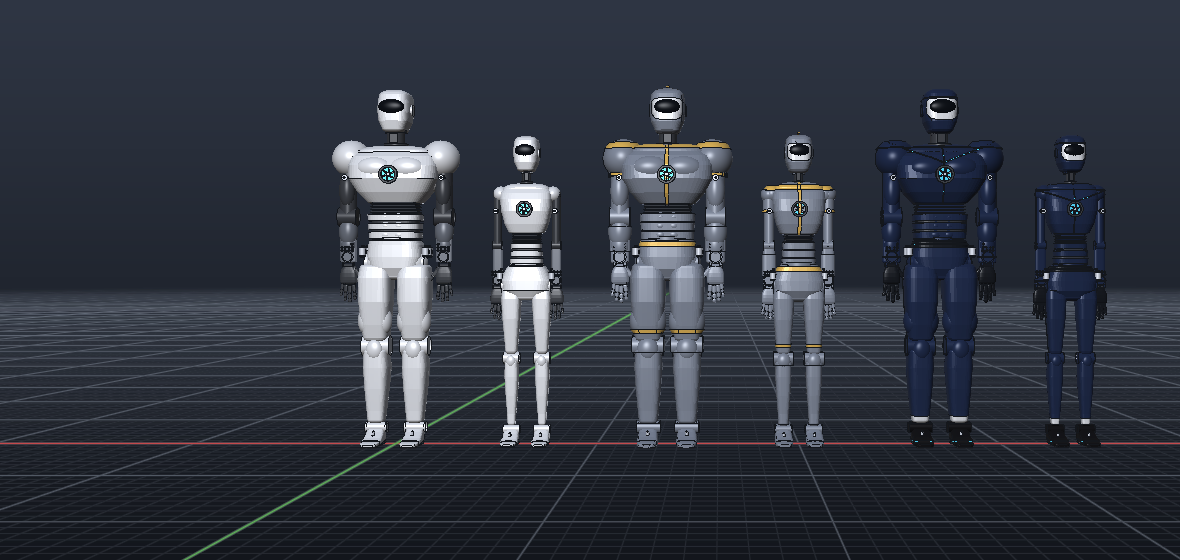
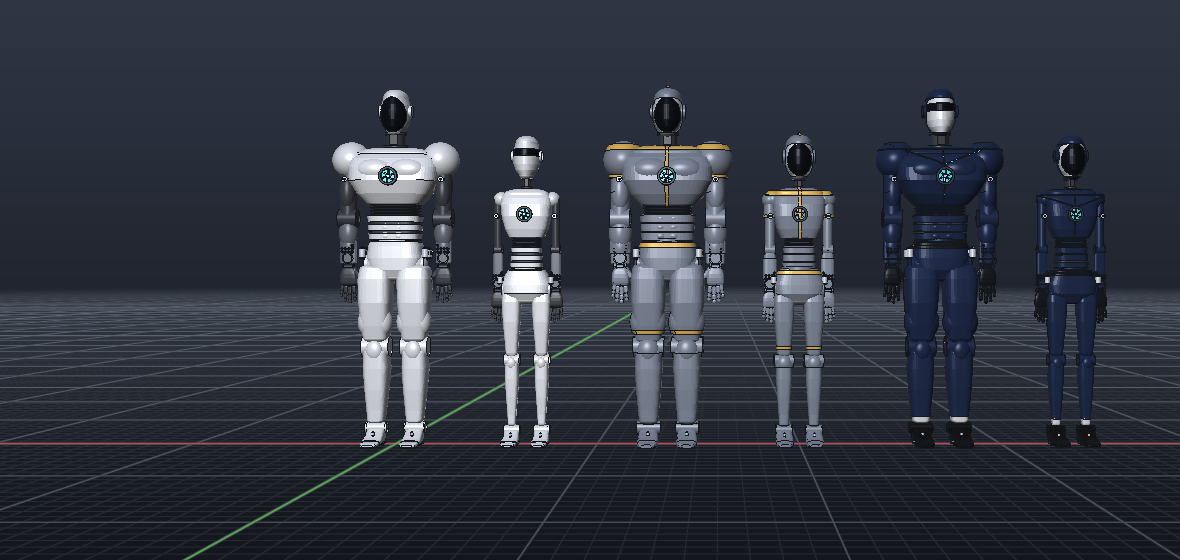
Humanoid faces: full or half black glass, on a real-size oval head
- FACE option on the male and female humanoids: Full black glass (one
  smooth dark glass over the face, brow to chin) or Half black glass (a
  band across the eyes wrapping toward the ears, RoboCop style). Both are
  the head's own surface lifted and cut cleanly, so they follow its curve.
- Heads are the real average adult size whatever the robot's height
  (male 232 x 155 x 190 mm, female 215 x 145 x 180 mm), with human oval
  (elliptic) sections instead of a deep rounded box; the body below the
  chin scales to make up the height.

Claude-Session: https://claude.ai/code/session_01CbyDM34jeTNtbpLZ1LxuGy

diff --git a/src/core/Library.cpp b/src/core/Library.cpp
@@ -620,12 +620,14 @@ Vec2 roundCorner(float a) {
     return {std::copysign(std::sqrt(std::fabs(c)), c), std::copysign(std::sqrt(std::fabs(s)), s)};
 }
 
-MeshData sweepY(const std::vector<Section>& secs, int n = 40) {
+// `elliptic`: plain ellipse sections instead of rounded boxes (heads).
+MeshData sweepY(const std::vector<Section>& secs, int n = 40, bool elliptic = false) {
     Builder b;
     auto ring = [&](const Section& q) {
         std::vector<Vec3> r(static_cast<std::size_t>(n));
         for (int k = 0; k < n; ++k) {
-            const Vec2 u = roundCorner(2.0f * kPi * static_cast<float>(k) / static_cast<float>(n));
+            const float a = 2.0f * kPi * static_cast<float>(k) / static_cast<float>(n);
+            const Vec2 u = elliptic ? Vec2{std::cos(a), std::sin(a)} : roundCorner(a);
             r[static_cast<std::size_t>(k)] = {q.hw * u.x, q.y, q.zc + q.ht * u.y};
         }
         return r;
@@ -779,7 +781,7 @@ struct BodySection {
 
 // Rounded-box shell swept up (+Z) or, with `down`, down (-Z) through `secs`
 // (h increasing), with domed ends rounded over r0 (first) and r1 (last) mm.
-MeshData bodyShell(std::vector<BodySection> secs, float r0, float r1, bool down = false, int n = 48) {
+MeshData bodyShell(std::vector<BodySection> secs, float r0, float r1, bool down = false, int n = 48, bool elliptic = false) {
     std::vector<BodySection> all;
     constexpr int kSteps = 6;
     const BodySection a = secs.front(), b = secs.back();
@@ -795,7 +797,7 @@ MeshData bodyShell(std::vector<BodySection> secs, float r0, float r1, bool down 
     }
     std::vector<Section> s;
     for (const BodySection& q : all) s.push_back({q.h, q.hw, q.hd, down ? q.fwd : -q.fwd});
-    MeshData m = sweepY(s, n);
+    MeshData m = sweepY(s, n, elliptic);
     m.transform(rotateAxis({1, 0, 0}, down ? -kPi * 0.5f : kPi * 0.5f));
     return m;
 }
@@ -815,14 +817,46 @@ MeshData cylY(float y0, float y1, float r, float x, float z, int seg = 48) {
 
 // Head on the neck pivot (origin): rounded skull, ear sensor pods; or (visor) the
 // dark face shield.
-MeshData robotHead(float w, float d, float h, bool visor) {
+MeshData inflated(const MeshData& m, float t, const std::vector<std::function<float(const Vec3&)>>& fields = {});
+
+// Head on the neck pivot (origin): the shell with ear sensor pods, or (visor) its dark
+// glass. Faces: 0 the robot's eye visor; 1 a full black glass face; 2 a half black glass
+// face (a band across the eyes, RoboCop style). Builds 1 and 2 (the male and female
+// humanoids) have a human oval head with elliptic sections; 0 the rounded robot head.
+MeshData robotHead(float w, float d, float h, bool visor, int face = 0, int build = 0) {
     const float sx = w / 160.0f, sy = d / 200.0f, sz = h / 230.0f;
     const float z0 = -15.0f * sz; // chin
-    if (visor) return ellipsoid({0, (0.47f * 200.0f + 4.0f) * sy, z0 + 0.56f * h}, {0.40f * w, 0.09f * d, 0.17f * h});
-    auto sec = [&](float u, float kw, float kd, float f) { return BodySection{z0 + u * h, kw * w, kd * d, f * d}; };
-    MeshData m = bodyShell({sec(0.10f, 0.36f, 0.40f, 0.06f), sec(0.25f, 0.46f, 0.47f, 0.04f), sec(0.45f, 0.50f, 0.50f, 0.02f),
-                            sec(0.65f, 0.50f, 0.50f, 0.0f), sec(0.80f, 0.47f, 0.48f, -0.02f)},
-                           0.10f * h, 0.16f * h);
+    if (visor && face == 0) return ellipsoid({0, (0.47f * 200.0f + 4.0f) * sy, z0 + 0.56f * h}, {0.40f * w, 0.09f * d, 0.17f * h});
+    // Sections up the head: height fraction u, half width and depth (x w, d), forward shift (x d).
+    struct Row {
+        float u, kw, kd, f;
+    };
+    static const std::vector<Row> kNeutral = {{0.10f, 0.36f, 0.40f, 0.06f}, {0.25f, 0.46f, 0.47f, 0.04f}, {0.45f, 0.50f, 0.50f, 0.02f},
+                                              {0.65f, 0.50f, 0.50f, 0.0f},  {0.80f, 0.47f, 0.48f, -0.02f}};
+    static const std::vector<Row> kOval = {{0.07f, 0.24f, 0.36f, 0.07f}, {0.17f, 0.36f, 0.43f, 0.05f}, {0.31f, 0.44f, 0.48f, 0.03f},
+                                           {0.48f, 0.47f, 0.50f, 0.02f}, {0.64f, 0.45f, 0.49f, 0.0f},  {0.78f, 0.39f, 0.46f, -0.02f}};
+    const std::vector<Row>& rows = build == 0 ? kNeutral : kOval;
+    auto zAt = [&](float u) { return z0 + u * h; };
+    std::vector<BodySection> secs;
+    for (const Row& r : rows) secs.push_back({zAt(r.u), r.kw * w, r.kd * d, r.f * d});
+    // Human heads are oval in section: the male and female heads use ellipses, the neutral
+    // robot head its rounded box.
+    MeshData shell = bodyShell(secs, (build == 0 ? 0.10f : 0.09f) * h, (build == 0 ? 0.16f : 0.19f) * h, false,
+                               build == 0 ? 48 : 64, build != 0);
+    if (visor) { // the dark glass parts
+        if (face == 1) { // full black glass: the face, brow to chin, under one smooth glass
+            const float zc = zAt(0.42f), rx = 0.42f * w, rz = 0.37f * h;
+            return inflated(shell, 1.5f * sy, {[=](const Vec3& p) { return p.y - 0.12f * d; },
+                                               [=](const Vec3& p) {
+                                                   const float ex = p.x / rx, ez = (p.z - zc) / rz;
+                                                   return 1.0f - (ex * ex + ez * ez);
+                                               }});
+        }
+        // Half black glass: a band wrapping across the eyes (RoboCop style).
+        return inflated(shell, 3.0f * sy, {[=](const Vec3& p) { return p.y + 0.05f * d; }, [=](const Vec3& p) { return p.z - zAt(0.50f); },
+                                           [=](const Vec3& p) { return zAt(0.66f) - p.z; }});
+    }
+    MeshData m = std::move(shell);
     m.append(cylX(-0.53f * w, 0.53f * w, 0.12f * h, -0.02f * d, z0 + 0.52f * h)); // ear sensor pods
     m.append(cylinderAt(0, -0.05f * d, 34.0f * std::min(sx, sy), z0 - 5.0f * sz, z0 + 0.12f * h)); // neck socket
     return m;
@@ -1565,7 +1599,7 @@ MeshData buildLibraryPart(const std::string& k, const std::vector<float>& p) {
     if (k == "robot_forearm" && ok(4)) return robotForearm(p[0], p[1], p[2], p[3], at(4) >= 0.5f, static_cast<int>(at(5)));
     if (k == "arm_link" && ok(2)) return armLink(p[0], p[1], static_cast<int>(at(2)));
     if (k == "robot_shoulder" && ok(2)) return robotShoulder(p[0], p[1]);
-    if (k == "robot_head" && ok(3)) return robotHead(p[0], p[1], p[2], at(3) >= 0.5f);
+    if (k == "robot_head" && ok(3)) return robotHead(p[0], p[1], p[2], at(3) >= 0.5f, static_cast<int>(at(4)), static_cast<int>(at(5)));
     if (k == "robot_neck" && ok(2)) return robotNeck(p[0], p[1]);
     if (k == "robot_chest" && ok(3)) return robotChest(p[0], p[1], p[2], static_cast<int>(at(3)));
     if (k == "robot_heart" && ok(1)) return robotHeart(p[0], static_cast<int>(at(1)));
@@ -1714,7 +1748,8 @@ const std::vector<LibraryItem>& libraryItems() {
         // the max is the mechanical hard stop. 0 deg = straight (no hyperextension).
         const LibraryParam side{"hand", "Hand", 0.0f, 0.0f, 1.0f, "", true, "Right|Left"};
         const LibraryParam handRpm{"rpm", "Motor speed", 120.0f, 1.0f, 600.0f, "rpm"};
-        const LibraryParam outfit[] = {{"suit", "Suit", 0.0f, 0.0f, 2.0f, "", true, "None|Armour suit|Futuristic suit"},
+        const LibraryParam outfit[] = {{"face", "Face", 0.0f, 0.0f, 1.0f, "", true, "Full black glass|Half black glass"},
+                                       {"suit", "Suit", 0.0f, 0.0f, 2.0f, "", true, "None|Armour suit|Futuristic suit"},
                                        {"gloves", "Gloves", 0.0f, 0.0f, 1.0f, "", true, "No|Yes"},
                                        {"shoes", "Shoes", 0.0f, 0.0f, 1.0f, "", true, "No|Yes"},
                                        {"helmet", "Helmet", 0.0f, 0.0f, 1.0f, "", true, "No|Yes"}};
@@ -1893,7 +1928,7 @@ const std::vector<LibraryItem>& libraryItems() {
             {"humanoid", "HUMANOID HUMANOIDROBOT ANDROID ROBOTBODY MALEHUMANOID MALE MALEROBOT", "Male Humanoid Robot", "Humanoid body",
              "Male, ultra-muscular build (broad V-taper, chest, arms, legs), 5.5 to 6 ft: 20 body + 14 arm joints and two hands on DC gear motors; "
              "armour or futuristic suit, gloves, shoes, helmet",
-             {{"height", "Height (5.5 - 6 ft)", 1752.6f, 1676.4f, 1828.8f, "mm"}, outfit[0], outfit[1], outfit[2], outfit[3], size, finish, {"demo", "Motion", 0.0f, 0.0f, 2.0f, "", true, "Range of motion|March in place|Still"},
+             {{"height", "Height (5.5 - 6 ft)", 1752.6f, 1676.4f, 1828.8f, "mm"}, outfit[0], outfit[1], outfit[2], outfit[3], outfit[4], size, finish, {"demo", "Motion", 0.0f, 0.0f, 2.0f, "", true, "Range of motion|March in place|Still"},
               {"drive", "Hand drive", 0.0f, 0.0f, 1.0f, "", true, "Underactuated (6 motors)|Fully actuated (15 motors)"}, handRpm, gear,
               neckYaw, neckPitch, neckRoll, waistRot, trunkFlex, trunkBend, heartRate,
               {"shoulder_flex", "Shoulder flexion (forward)", 90.0f, 1.0f, 180.0f, "deg"},
@@ -1904,7 +1939,7 @@ const std::vector<LibraryItem>& libraryItems() {
             {"humanoid_female", "FEMALEHUMANOID FEMALE FEMALEROBOT GYNOID", "Female Humanoid Robot", "Humanoid body",
              "Female, ultra-slim build (narrow waist, curved hips, slender limbs), 4.5 to 5.5 ft: the same joints, motors and hands; "
              "armour or futuristic suit, gloves, shoes, helmet",
-             {{"height", "Height (4.5 - 5.5 ft)", 1524.0f, 1371.6f, 1676.4f, "mm"}, outfit[0], outfit[1], outfit[2], outfit[3], size, finish, {"demo", "Motion", 0.0f, 0.0f, 2.0f, "", true, "Range of motion|March in place|Still"},
+             {{"height", "Height (4.5 - 5.5 ft)", 1524.0f, 1371.6f, 1676.4f, "mm"}, outfit[0], outfit[1], outfit[2], outfit[3], outfit[4], size, finish, {"demo", "Motion", 0.0f, 0.0f, 2.0f, "", true, "Range of motion|March in place|Still"},
               {"drive", "Hand drive", 0.0f, 0.0f, 1.0f, "", true, "Underactuated (6 motors)|Fully actuated (15 motors)"}, handRpm, gear,
               neckYaw, neckPitch, neckRoll, waistRot, trunkFlex, trunkBend, heartRate,
               {"shoulder_flex", "Shoulder flexion (forward)", 90.0f, 1.0f, 180.0f, "deg"},
@@ -2335,18 +2370,26 @@ struct HumanoidBuild {
 // slender limbs).
 constexpr HumanoidBuild kBuilds[] = {
     {280, 180, 260, 180, 230, 160, 380, 230, 130, 140, 100, 110, 34, 160, 200, 230, 32, 70, 95},
-    {290, 190, 280, 190, 250, 172, 470, 268, 168, 180, 126, 142, 46, 166, 206, 232, 43, 84, 100},
-    {300, 176, 196, 146, 172, 130, 330, 202, 116, 124, 84, 94, 26, 148, 188, 220, 24, 58, 90},
+    {290, 190, 280, 190, 250, 172, 470, 268, 168, 180, 126, 142, 46, 155, 190, 232, 43, 84, 100},
+    {300, 176, 196, 146, 172, 130, 330, 202, 116, 124, 84, 94, 26, 145, 180, 215, 24, 58, 90},
 };
 // Height of the humanoid at size 1 (sole to the top of the head), mm.
-float humanoidModelHeight(float headH) { return kNeckZ + kNeck - 15.0f + 0.96f * headH; }
+// Body scale for a whole robot `height` mm tall (sole to the top of the head) whose head
+// is the real adult head size of the build (head dims in kBuilds are absolute mm for the
+// male and female): the head is not scaled, the body below the chin fills the rest.
+// (The oval head's top is 0.97 of its height above its chin, which is 15 / 230 of its
+// height below the neck pivot.)
+float humanoidBodyScale(float height, const HumanoidBuild& b, int /*build*/) {
+    const float head = (0.97f - 15.0f / 230.0f) * b.headH;
+    return (height - head) / (kNeckZ + kNeck);
+}
 
 // The surface of `m` moved out `t` mm along its (averaged) normals: a skin-tight cover.
 // With `fields`, only where every field(p) >= 0, cut cleanly along field = 0 (triangles
 // are clipped, so bands, stripes and the helmet's face opening have smooth edges; use
 // straight fields such as z - z0 for exact cuts).
 using CoverField = std::function<float(const Vec3&)>;
-MeshData inflated(const MeshData& m, float t, const std::vector<CoverField>& fields = {}) {
+MeshData inflated(const MeshData& m, float t, const std::vector<CoverField>& fields) {
     std::map<std::tuple<long, long, long>, Vec3> normals;
     auto key = [](const Vec3& p) {
         return std::make_tuple(std::lround(p.x * 20.0f), std::lround(p.y * 20.0f), std::lround(p.z * 20.0f));
@@ -2533,7 +2576,7 @@ void dressHumanoid(LibraryComponent& c, const std::function<float(const char*)>&
         const float hh = hb.max.z - hb.min.z, hd = hb.max.y - hb.min.y, hw = hb.max.x - hb.min.x;
         auto openFace = [=](const Vec3& p) { // outside the face window (mm)
             const float z = (p.z - hb.min.z) / std::max(hh, 1e-3f);
-            return -std::min({p.y - (hb.min.y + 0.62f * hd), (z - 0.30f) * hh, (0.78f - z) * hh, 0.46f * hw - std::fabs(p.x)});
+            return -std::min({p.y - (hb.min.y + 0.58f * hd), (z - 0.06f) * hh, (0.80f - z) * hh, 0.44f * hw - std::fabs(p.x)});
         };
         cover(headBody, "Helmet", armour ? 8.0f : 6.0f, armour ? plate : fabric, {openFace});
         if (armour)
@@ -2560,7 +2603,9 @@ void buildHumanoid(LibraryComponent& c, const std::string& key, const std::funct
     const int build = all ? (female ? 2 : 1) : 0;
     const HumanoidBuild& B = kBuilds[build];
     // A whole robot is made the height asked for (sole to the top of the head).
-    const float s = v("size") * (all ? v("height") / humanoidModelHeight(B.headH) : 1.0f), gear = v("gear"), rpm = v("rpm");
+    const float s = v("size") * (all ? humanoidBodyScale(v("height"), B, build) : 1.0f), gear = v("gear"), rpm = v("rpm");
+    // A whole robot's head is drawn at its real size (x SIZE), whatever the body scale.
+    const float headK = all ? v("size") / s : 1.0f;
     const float shoulderX = 200.0f * B.chestW / 380.0f, hipX = B.hipX;
     const float shoulderK = shoulderX / 200.0f; // shoulder motors follow the shoulder width
     const bool black = v("finish") >= 0.5f;
@@ -2620,8 +2665,11 @@ void buildHumanoid(LibraryComponent& c, const std::string& key, const std::funct
             rollDrive = motor(h, "Neck Roll", "neck_roll", 0.9f, {34, -104, kNeckZ - 70}, &aboveTrunk);
         }
         add("Neck", "robot_neck", {kNeck, B.neckR}, {0, 0, kNeckZ}, accent, &neckHead);
-        add("Head", "robot_head", {B.headW, B.headD, B.headH, 0}, {0, 0, kNeckZ + kNeck}, shell, &headOnlyBodies);
-        add("Visor", "robot_head", {B.headW, B.headD, B.headH, 1}, {0, 0, kNeckZ + kNeck}, kVisor, &headOnlyBodies);
+        const float face = all ? v("face") + 1.0f : 0.0f; // whole robots: glass face, half visor or sculpted face
+        add("Head", "robot_head", {B.headW * headK, B.headD * headK, B.headH * headK, 0, face, static_cast<float>(build)},
+            {0, 0, kNeckZ + kNeck}, shell, &headOnlyBodies);
+        add("Visor", "robot_head", {B.headW * headK, B.headD * headK, B.headH * headK, 1, face, static_cast<float>(build)},
+            {0, 0, kNeckZ + kNeck}, kVisor, &headOnlyBodies);
         neckHead.insert(neckHead.end(), headOnlyBodies.begin(), headOnlyBodies.end());
         aboveTrunk.insert(aboveTrunk.end(), neckHead.begin(), neckHead.end());
     }

diff --git a/tests/test_library.cpp b/tests/test_library.cpp
@@ -9,6 +9,7 @@
 #include <cmath>
 #include <filesystem>
 #include <map>
+#include <memory>
 #include <tuple>
 
 using namespace sicdm;
@@ -651,7 +652,7 @@ TEST_CASE("humanoid robot: head to toe, standing, facing the front view") {
     for (const Body& b : s.bodies()) all.expand(b.bounds());
     CHECK_NEAR(all.min.z, 0, 1e-3);           // soles on the ground
     CHECK_NEAR(all.max.z, 1752.6, 2.0);      // the male default: 5 ft 9 in
-    CHECK(body(s, n + "Visor")->bounds().center().y < -80);       // the face looks toward -Y (Front view)
+    CHECK(body(s, n + "Visor")->bounds().center().y < body(s, n + "Head")->bounds().center().y - 30); // the face looks toward -Y (Front view)
     CHECK(body(s, n + "Right Foot")->bounds().center().x < 0);    // its right side is on the viewer's left
     CHECK(body(s, n + "Right Arm Palm")->bounds().center().x < -150);
     CHECK(body(s, n + "Right Arm Palm")->bounds().max.z < 1000);  // arms hang beside the thighs
@@ -988,4 +989,46 @@ TEST_CASE("humanoid outfits: armour or futuristic suit, gloves, shoes and helmet
     Document plain;
     REQUIRE(run(plain, "PART humanoid").ok);
     CHECK(!body(plain.scene, "Male Humanoid Robot 1 Helmet"));
+}
+
+TEST_CASE("humanoid faces: full black glass or half black glass, on a real-size oval head") {
+    struct Faces {
+        AABB head, glass;
+    };
+    auto faceOf = [](const char* robot, const char* face, const char* height = nullptr) {
+        Document d;
+        executeCommand(d, std::string("PART ") + robot + " FACE " + face + (height ? std::string(" HEIGHT ") + height : ""), nullptr);
+        Faces f;
+        for (const Body& b : d.scene.bodies()) {
+            if (b.name.size() > 5 && b.name.compare(b.name.size() - 5, 5, " Head") == 0) f.head = b.bounds();
+            if (b.name.size() > 6 && b.name.compare(b.name.size() - 6, 6, " Visor") == 0) f.glass = b.bounds();
+        }
+        return f;
+    };
+    for (const char* robot : {"humanoid", "humanoid_female"}) {
+        const Faces full = faceOf(robot, "FULL"), half = faceOf(robot, "HALF");
+        REQUIRE(full.head.valid() && full.glass.valid() && half.glass.valid());
+        const float headH = full.head.max.z - full.head.min.z, headW = full.head.max.x - full.head.min.x;
+        // Full black glass: most of the face, brow to chin, and wide.
+        CHECK(full.glass.max.z - full.glass.min.z > 0.55f * headH);
+        CHECK(full.glass.max.x - full.glass.min.x > 0.6f * headW);
+        // Half black glass: a band across the eyes, wrapping to the sides; the lower face is shell.
+        CHECK(half.glass.max.z - half.glass.min.z < 0.25f * headH);
+        CHECK(half.glass.min.z > full.head.min.z + 0.4f * headH);
+        CHECK(half.glass.max.x - half.glass.min.x > 0.8f * headW);
+    }
+    CHECK(!run(*std::make_unique<Document>(), "PART humanoid FACE SCULPTED").ok);
+    // Real adult head size (not scaled with the body), and not too deep: male about
+    // 232 x 155 x 190 mm, female 215 x 145 x 180 mm (height, width, front to back without the
+    // ear pods), whatever the robot's height.
+    for (const char* height : {"1676.4", "1828.8"}) {
+        const Faces m = faceOf("humanoid", "FULL", height);
+        CHECK_NEAR(m.head.max.z - m.head.min.z, 232 * (0.97 + 5.0 / 230), 4.0); // chin to crown, and the neck socket
+        CHECK(m.head.max.y - m.head.min.y < 200.0f);
+    }
+    for (const char* height : {"1371.6", "1676.4"}) {
+        const Faces f = faceOf("humanoid_female", "FULL", height);
+        CHECK_NEAR(f.head.max.z - f.head.min.z, 215 * (0.97 + 5.0 / 230), 4.0);
+        CHECK(f.head.max.y - f.head.min.y < 190.0f);
+    }
 }

diff --git a/docs/humanoid-body.md b/docs/humanoid-body.md
@@ -66,7 +66,7 @@ the return side is fixed by the standard.
 
 | Part (`PART` key) | Bodies | Main parameters |
 | --- | --- | --- |
-| **Male Humanoid Robot** (`HUMANOID`, `MALE`) | Head, neck, chest, heart, midriff, gut, pelvis, 2 legs, 2 arms with hands, 20 + 14 + hand motors; ultra-muscular build | `HEIGHT` 1676.4 to 1828.8 mm (5.5 to 6 ft, default 1752.6 = 5 ft 9 in), `SUIT` None / Armour / Futuristic, `GLOVES`, `SHOES`, `HELMET`, `SIZE`, `FINISH` White / Black shells, `DEMO` Range of motion / March in place / Still, `DRIVE` (hands), `RPM`, `GEAR`, every limit above, `HEART_RATE` |
+| **Male Humanoid Robot** (`HUMANOID`, `MALE`) | Head, neck, chest, heart, midriff, gut, pelvis, 2 legs, 2 arms with hands, 20 + 14 + hand motors; ultra-muscular build | `HEIGHT` 1676.4 to 1828.8 mm (5.5 to 6 ft, default 1752.6 = 5 ft 9 in), `FACE` Full black glass / Half black glass, `SUIT` None / Armour / Futuristic, `GLOVES`, `SHOES`, `HELMET`, `SIZE`, `FINISH` White / Black shells, `DEMO` Range of motion / March in place / Still, `DRIVE` (hands), `RPM`, `GEAR`, every limit above, `HEART_RATE` |
 | **Female Humanoid Robot** (`HUMANOID_FEMALE`, `FEMALE`) | The same parts, joints and motors; ultra-slim build | `HEIGHT` 1371.6 to 1676.4 mm (4.5 to 5.5 ft, default 1524 = 5 ft), and the same options as the male |
 | **Robot Head & Neck** (`HEADNECK`) | Head, visor, neck on a pedestal, 3 motors | `SIZE`, `FINISH`, `RPM`, `GEAR`, `NECK_YAW` `NECK_PITCH` `NECK_ROLL` |
 | **Robot Upper Body** (`TORSO`) | Pelvis on a stand, gut, midriff, chest, heart, 3 motors | `SIZE`, `FINISH`, `RPM`, `GEAR`, `WAIST_ROT` `TRUNK_FLEX` `TRUNK_BEND`, `HEART_RATE` |
@@ -100,10 +100,19 @@ head, and `SIZE` multiplies that.
 | Shoulders and chest | Broad (chest 470 wide): deltoid caps, pectorals, trapezius, latissimus | Narrow (330), a smooth tapered rib cage, small shoulder caps |
 | Waist | V-taper to a narrow waist, with six abdominal plates | Very narrow waist (172), with hips wider than the waist |
 | Arms | Biceps, triceps, forearm muscle mass (upper arm 86 thick) | Slender (upper arm 48), smooth |
+| Head | Real adult size, **232 × 155 × 190 mm** (height × width × front to back) | **215 × 145 × 180 mm** |
 | Legs | Quadriceps, vastus "teardrops", hamstrings, a big calf | Slim, smooth taper to slim knees and ankles |
 
 Both keep every joint, motor, range of motion, posture and gesture. At the same height the male is about
-1.4 times as wide.
+1.4 times as wide. The head stays the average adult head size, whatever the robot's height. It has a human
+oval shape (elliptic sections, not a deep box), and the body below it scales to make up the height.
+
+### Face
+
+| `FACE` | Look |
+| --- | --- |
+| **Full black glass** (default) | One smooth dark glass over the whole face, brow to chin, following the head's curve. |
+| **Half black glass** | A dark glass band across the eyes, wrapping round toward the ears, RoboCop style. The lower face is smooth shell. |
 
 ## Outfits: suits, gloves, shoes and a helmet
 
@@ -124,7 +133,8 @@ finger link.
 Gloves, shoes and the helmet take the suit's style, or the futuristic style without a suit.
 
 ```text
-PART HUMANOID                                            male, 5 ft 9 in
+PART HUMANOID                                            male, 5 ft 9 in, full black glass face
+PART HUMANOID FACE HALF                                  half black glass face
 PART FEMALE HEIGHT 1600 @800,0,0                         female, 5 ft 3 in
 PART HUMANOID SUIT ARMOUR GLOVES YES SHOES YES HELMET YES
 PART FEMALE SUIT FUTURISTIC GLOVES YES SHOES YES HELMET YES FINISH BLACK

diff --git a/README.md b/README.md
@@ -169,7 +169,7 @@ parametric: they save as parameters and rebuild exactly when the project opens.
 | Chains & belts | **Sprocket** (ANSI 40 by default), **Steel roller chain** (plates, pins, rollers), **Chain drive**, **Pulley** (V-groove / timing GT2 / flat), **Rubber belt** (flat / V / timing), **Belt drive**, **O-ring / rubber band** |
 | Gear trains | **Gear pair**, **Rack and pinion**, **Planetary set** (sun, 3 planets, carrier, ring), **Worm drive**: meshed, with linked motions |
 | Robot arm & hand | **Robot arm** (shoulder pedestal with 3-DOF shoulder, upper arm, elbow, forearm rotation and the hand), **Robot hand** (palm, 4 fingers, opposable thumb, 2-DOF wrist; underactuated 6 motors or fully actuated 15), **Robot finger**, **Robot thumb**, **Finger link (phalanx)**, **Robot palm**, **Robot forearm**, **Upper arm link**, **Shoulder pedestal**: DC gear motors drive every joint within human-based limits, see [docs/robot-arm.md](docs/robot-arm.md) |
-| Humanoid body | **Male humanoid robot** (ultra-muscular, 5.5 to 6 ft, default 5 ft 9 in) and **Female humanoid robot** (ultra-slim, 4.5 to 5.5 ft, default 5 ft): 20 body + 14 arm joints and two hands; armour or futuristic suit, gloves, shoes, helmet; range-of-motion, march-in-place or still demo, **Robot head & neck**, **Robot upper body** (pelvis, gut, midriff, chest, heart), **Robot leg**, and the single **head**, **neck**, **chest**, **heart (power core)**, **gut (abdomen)**, **midriff**, **pelvis (low hip)**, **thigh**, **shin**, **foot**: every joint on a DC gear motor within human range of motion, see [docs/humanoid-body.md](docs/humanoid-body.md) |
+| Humanoid body | **Male humanoid robot** (ultra-muscular, 5.5 to 6 ft, default 5 ft 9 in) and **Female humanoid robot** (ultra-slim, 4.5 to 5.5 ft, default 5 ft): 20 body + 14 arm joints and two hands; real-size oval head with a full or half black glass face; armour or futuristic suit, gloves, shoes, helmet; range-of-motion, march-in-place or still demo, **Robot head & neck**, **Robot upper body** (pelvis, gut, midriff, chest, heart), **Robot leg**, and the single **head**, **neck**, **chest**, **heart (power core)**, **gut (abdomen)**, **midriff**, **pelvis (low hip)**, **thigh**, **shin**, **foot**: every joint on a DC gear motor within human range of motion, see [docs/humanoid-body.md](docs/humanoid-body.md) |
 
 - **Motors** are two bodies, a fixed housing and a rotor (shaft with coupler, or servo horn), and come
   with a **360° circular motion** on the rotor (speed in rpm, Loop 0–360°). Steppers move in 1.8°
